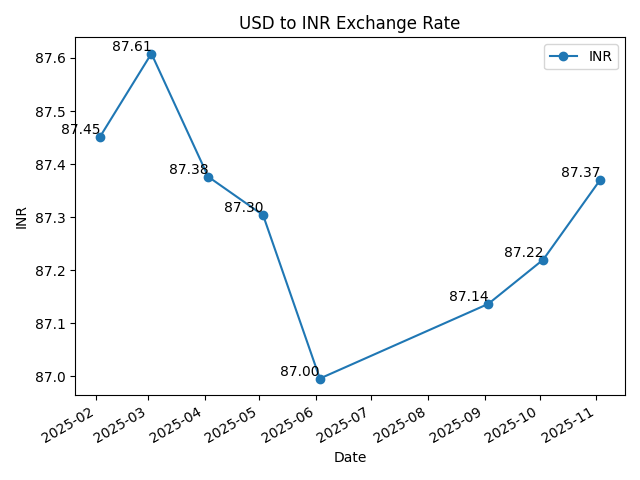
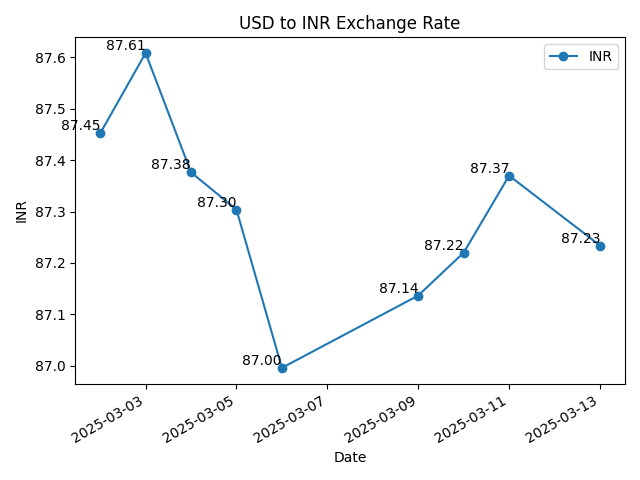
Update financial data: Added new entries for DII and FII buy/sell data, gold prices, and USD to INR exchange rates for March 12 and 13, 2025. Adjusted datetime parsing in the dollar_vs_inr.py script.

diff --git a/src/dollar_vs_inr.py b/src/dollar_vs_inr.py
@@ -53,7 +53,7 @@ def plot_and_save_usd_to_inr(df, filename="./src/usd_to_inr_exchange_rate.png"):
             return
         # Convert time_last_update_utc to datetime
         # Convert time_last_update_utc to datetime and set as index
-        df_inr['time_last_update_utc'] = pd.to_datetime(df_inr['time_last_update_utc'], errors='coerce')
+        df_inr['time_last_update_utc'] = pd.to_datetime(df_inr['time_last_update_utc'], format='mixed', dayfirst=True)
         df_inr.dropna(subset=['time_last_update_utc'], inplace=True)
         df_inr.insert(1, 'date', df_inr['time_last_update_utc'].dt.date)
         df_inr.set_index('time_last_update_utc', inplace=True)  # Set datetime as index
